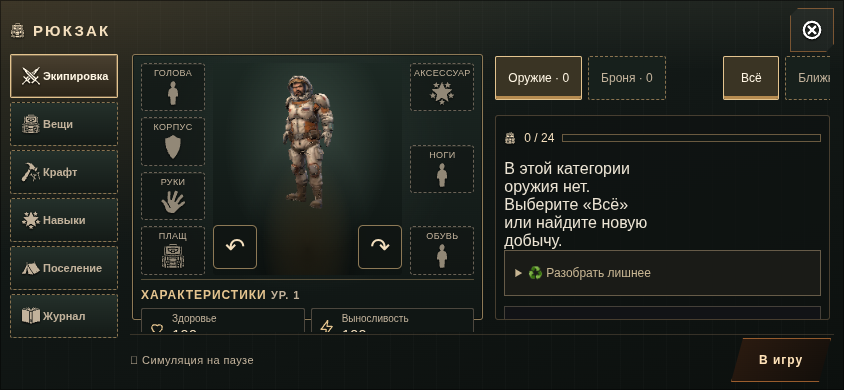
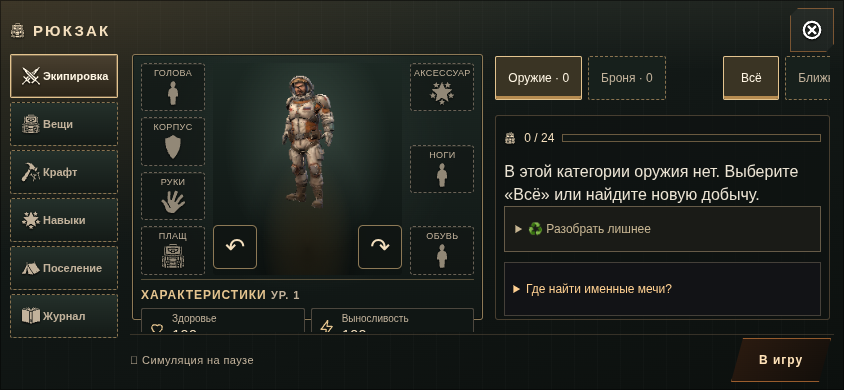
fix: keep empty inventory messages readable on desktop and mobile

Changed region(s): [[0.5853, 0.4, 0.9858, 0.6462], [0.5853, 0.6769, 0.8009, 0.7692], [0.3389, 0.1846, 0.4005, 0.4308]]

diff --git a/play/ui/backpack.css b/play/ui/backpack.css
@@ -489,3 +489,18 @@
   #inv.bp #invBody.bp-swap { animation: none; }
   #inv.bp .equipmentStat dd { transition: none; }
 }
+
+/* Сообщение пустой категории занимает всю сетку, а не одну карточку. */
+#inv.bp .grid > .cnt:only-child {
+  grid-column: 1 / -1;
+  min-width: 0;
+  line-height: 1.45;
+}
+@media (max-width: 800px) and (orientation: portrait) {
+  #inv.bp #invBody.equipmentBody > .invTools,
+  #inv.bp #invBody.equipmentBody > .invList,
+  #inv.bp #invBody.equipmentBody > .invDetail {
+    flex: 0 0 auto;
+    overflow: visible;
+  }
+}

diff --git a/tests/backpack-preview.py b/tests/backpack-preview.py
@@ -19,14 +19,17 @@ with sync_playwright() as p:
     page.keyboard.press('KeyI')
     page.wait_for_function('game.ui.equipmentPreview?.inst')
     for name,w,h,dpr in [('desktop',1280,800,.75),('portrait',390,844,1.1),('landscape',844,390,2)]:
+        if os.environ.get('TERRA_PREVIEW_CASE') and os.environ['TERRA_PREVIEW_CASE'] != name:
+            continue
         page.set_viewport_size({'width':w,'height':h})
+        page.locator('#invBody').evaluate('el => el.scrollTop = 0')
         page.wait_for_timeout(200)
         result = page.evaluate('''dpr => {
           const p=game.ui.equipmentPreview,r=game.ren;
           r.setPixelRatio(dpr);
           const state=()=>({viewport:r.getViewport(p.target.viewport.clone()).toArray(),
             scissor:r.getScissor(p.target.scissor.clone()).toArray(),test:r.getScissorTest(),
-            alpha:r.getClearAlpha(),auto:r.autoClear,pixelRatio:r.getPixelRatio()});
+            alpha:r.getClearAlpha(),color:r.getClearColor({copy:c=>[c.r,c.g,c.b]}),auto:r.autoClear,pixelRatio:r.getPixelRatio()});
           const target=r.getRenderTarget(), before=JSON.stringify(state());
           p.draw();
           const restored=target===r.getRenderTarget()&&before===JSON.stringify(state());
@@ -42,6 +45,13 @@ with sync_playwright() as p:
         assert result['span']>.5,result
         print(name,dpr,result,flush=True)
         page.screenshot(path=str(out/(name+'.png')))
+        empty = page.locator('#inv .grid > .cnt:only-child').first
+        empty.scroll_into_view_if_needed()
+        width = empty.evaluate('el => ({actual:el.getBoundingClientRect().width, available:el.parentElement.clientWidth})')
+        assert width['actual'] >= width['available'] * .95, width
+        visible = empty.evaluate('''el => {const a=el.getBoundingClientRect(),b=el.closest('.invList').getBoundingClientRect(); return a.top>=b.top && a.bottom<=b.bottom;}''')
+        assert visible, 'Текст обрезан сжатым списком'
+        page.screenshot(path=str(out/(name+'-empty-category.png')))
     page.keyboard.press('Escape')
     page.wait_for_function("game.state==='play'")
     page.wait_for_timeout(300)

diff --git a/tests/backpack.py b/tests/backpack.py
@@ -135,6 +135,9 @@ with sync_playwright() as p:
     page.wait_for_timeout(250)
     armed = page.locator('[data-equipment-weapon="0"]')
     expect(armed).not_to_contain_text('Пусто')
+    back = page.locator('[data-inv-back]')
+    if back.count() and back.first.is_visible():
+        back.first.click()
     page.locator('[data-gear="armor"]').click()
     page.locator(f'.tile[data-armor="{ids["a"]}"]').hover()
     expect(page.locator('#bpTip')).to_contain_text('Броня')

diff --git a/CHANGELOG.md b/CHANGELOG.md
@@ -2,7 +2,7 @@
 
 ## [Не выпущено]
 
-- Рюкзак: оформление больше не запускает само себя каждый кадр; второй тап распознаётся в течение всего окна 380 мс. Превью героя использует физический размер render target: адаптивный DPR больше не смещает кадр и не обрезает голову.
+- Рюкзак: оформление больше не запускает само себя каждый кадр; второй тап распознаётся в течение всего окна 380 мс. Превью героя использует физический размер render target: адаптивный DPR больше не смещает кадр и не обрезает голову. Сообщение пустой категории занимает всю ширину списка, а на телефоне список не сжимается в узкую полосу.
 
 - Рюкзак: слоты вокруг живой куклы, цвет редкости, силуэт вместо «Пусто», карточки вещей, шкала места и компактные характеристики. Кадр модели не пересчитывается заново — его даёт правка экипировки (поза, 3–97 перцентиль, аспект окна). Крафт, навыки и журнал только перекрашены. Надевание и формат сохранения profile v3 не меняются.
 
